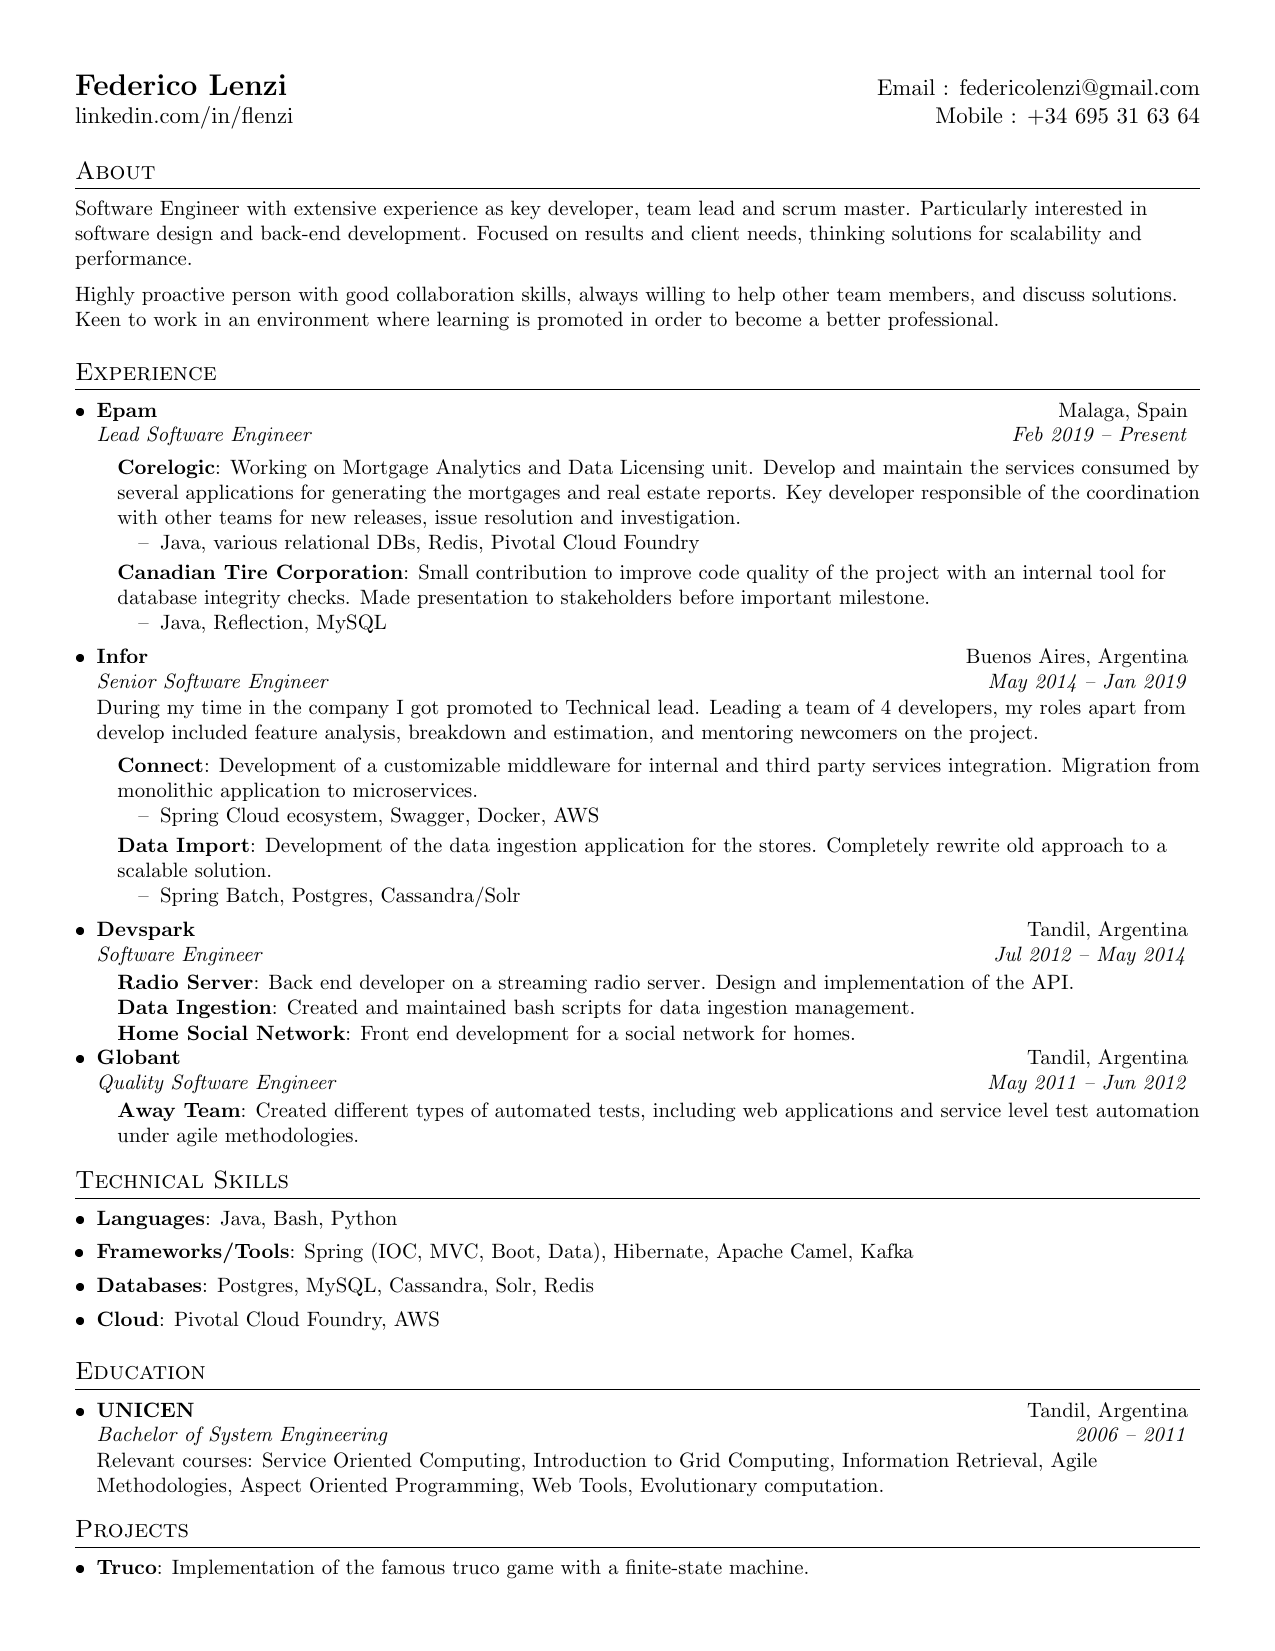
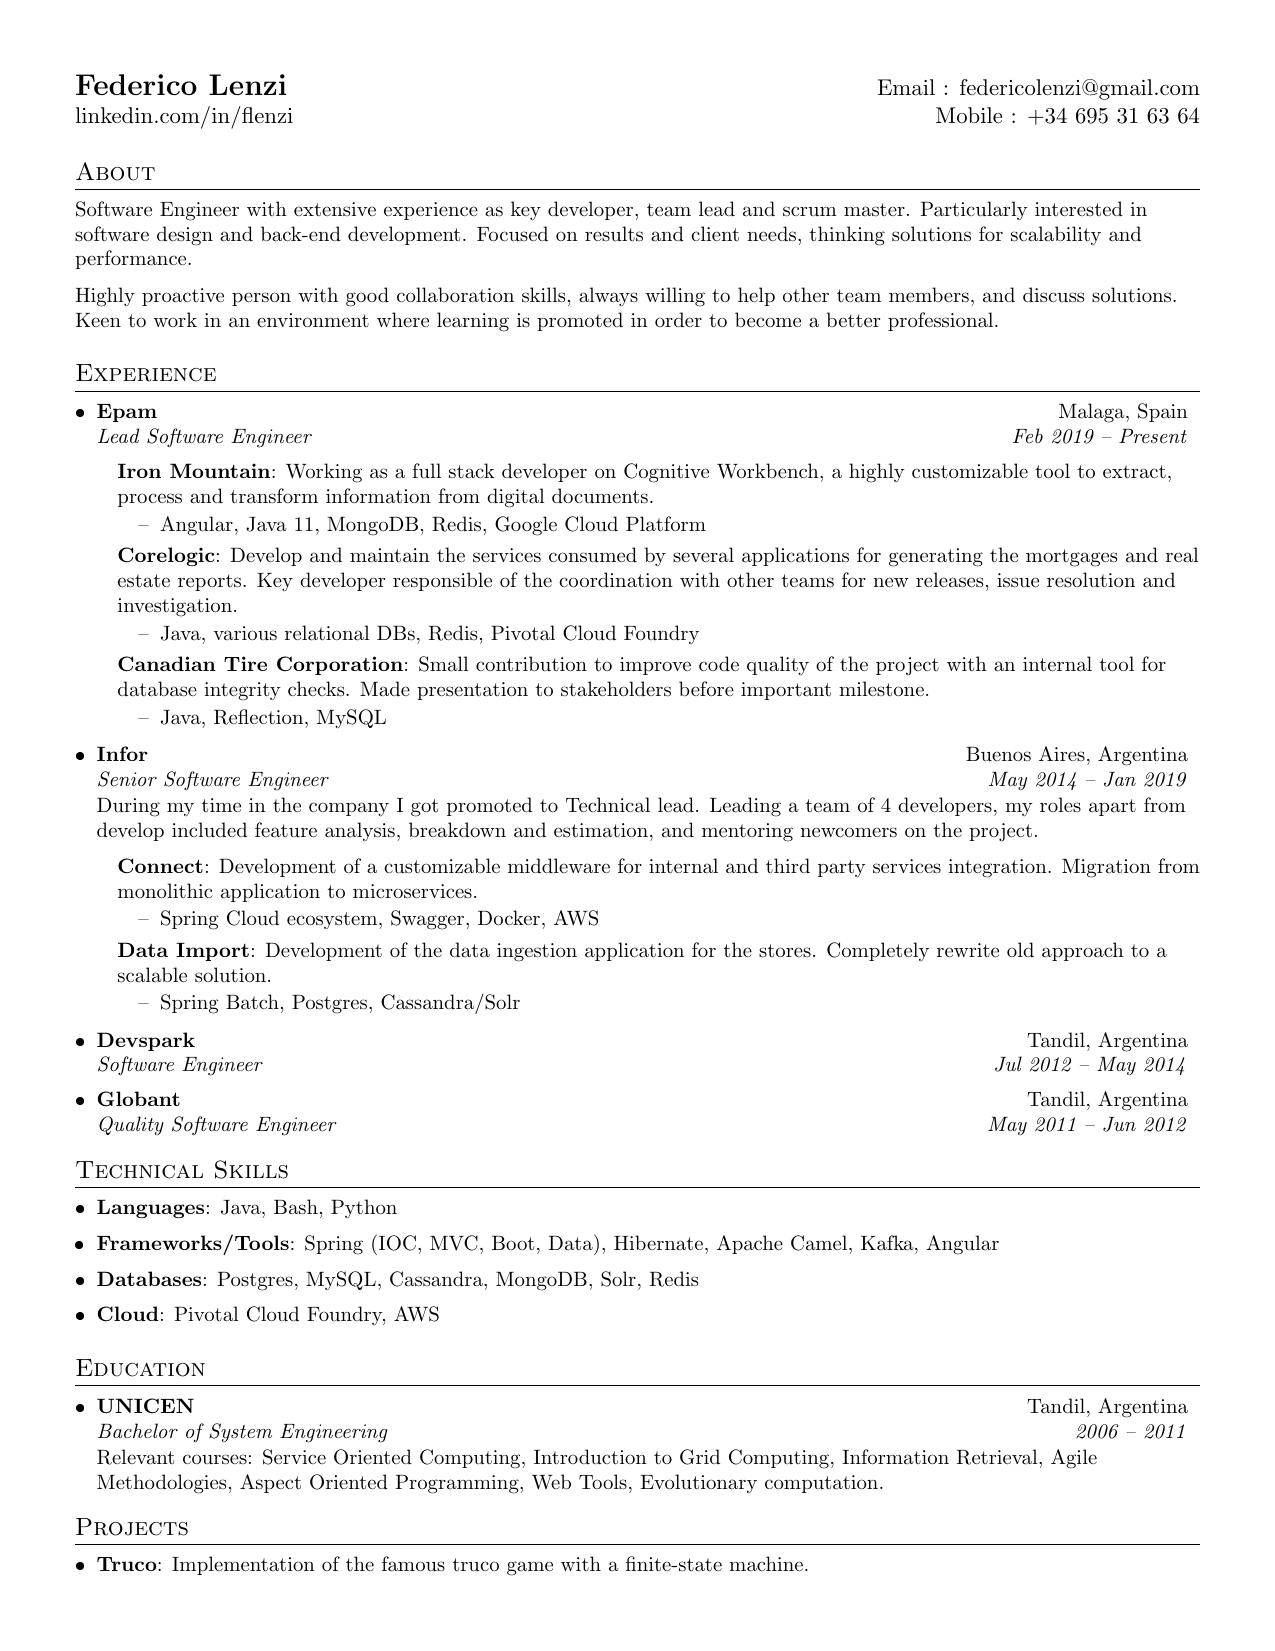
Added Iron mountain position

diff --git a/federicolenziCV.tex b/federicolenziCV.tex
@@ -112,8 +112,14 @@ Highly proactive person with good collaboration skills, always willing to help o
 
       \resumeItemListStart
         \resumeItem
+          {Iron Mountain}
+          {Working as a full stack developer on Cognitive Workbench, a highly customizable tool to extract, process and transform information from digital documents.}
+           \resumeItemDescpritionStart
+             \item Angular, Java 11, MongoDB, Redis, Google Cloud Platform
+           \resumeItemDescpritionEnd
+        \resumeItem
           {Corelogic}
-          {Working on Mortgage Analytics and Data Licensing unit. Develop and maintain the services consumed by several applications for generating the mortgages and real estate reports. Key developer responsible of the coordination with other teams for new releases, issue resolution and investigation.}
+          {Develop and maintain the services consumed by several applications for generating the mortgages and real estate reports. Key developer responsible of the coordination with other teams for new releases, issue resolution and investigation.}
            \resumeItemDescpritionStart
              \item Java, various relational DBs, Redis, Pivotal Cloud Foundry
            \resumeItemDescpritionEnd
@@ -148,27 +154,9 @@ Highly proactive person with good collaboration skills, always willing to help o
     \resumeSubheading
       {Devspark}{Tandil, Argentina}
       {Software Engineer}{Jul 2012 -- May 2014}
-      \resumeItemListStart     
-        \resumeItem
-          {Radio Server}
-          {Back end developer on a streaming radio server. Design and implementation of the API.}
-        \resumeItem
-          {Data Ingestion}
-          {Created and maintained bash scripts for data ingestion management.}
-        \resumeItem
-          {Home Social Network}
-          {Front end development for a social network for homes.}
-      \resumeItemListEnd
-
     \resumeSubheading
       {Globant}{Tandil, Argentina}
       {Quality Software Engineer}{May 2011 -- Jun 2012}
-      \resumeItemListStart
-        \resumeItem
-          {Away Team}
-          {Created different types of automated tests, including web applications and service level test automation under agile methodologies.}
-      \resumeItemListEnd
-
   \resumeSubHeadingListEnd
 
 
@@ -179,10 +167,10 @@ Highly proactive person with good collaboration skills, always willing to help o
       \textbf{Languages}{: Java, Bash, Python}
     }   
     \item{
-       \textbf{Frameworks/Tools}{: Spring (IOC, MVC, Boot, Data), Hibernate, Apache Camel, Kafka}
+       \textbf{Frameworks/Tools}{: Spring (IOC, MVC, Boot, Data), Hibernate, Apache Camel, Kafka, Angular}
     }       
     \item{
-       \textbf{Databases}{: Postgres, MySQL, Cassandra, Solr, Redis}
+       \textbf{Databases}{: Postgres, MySQL, Cassandra, MongoDB, Solr, Redis}
     }
     \item{
        \textbf{Cloud}{: Pivotal Cloud Foundry, AWS}
